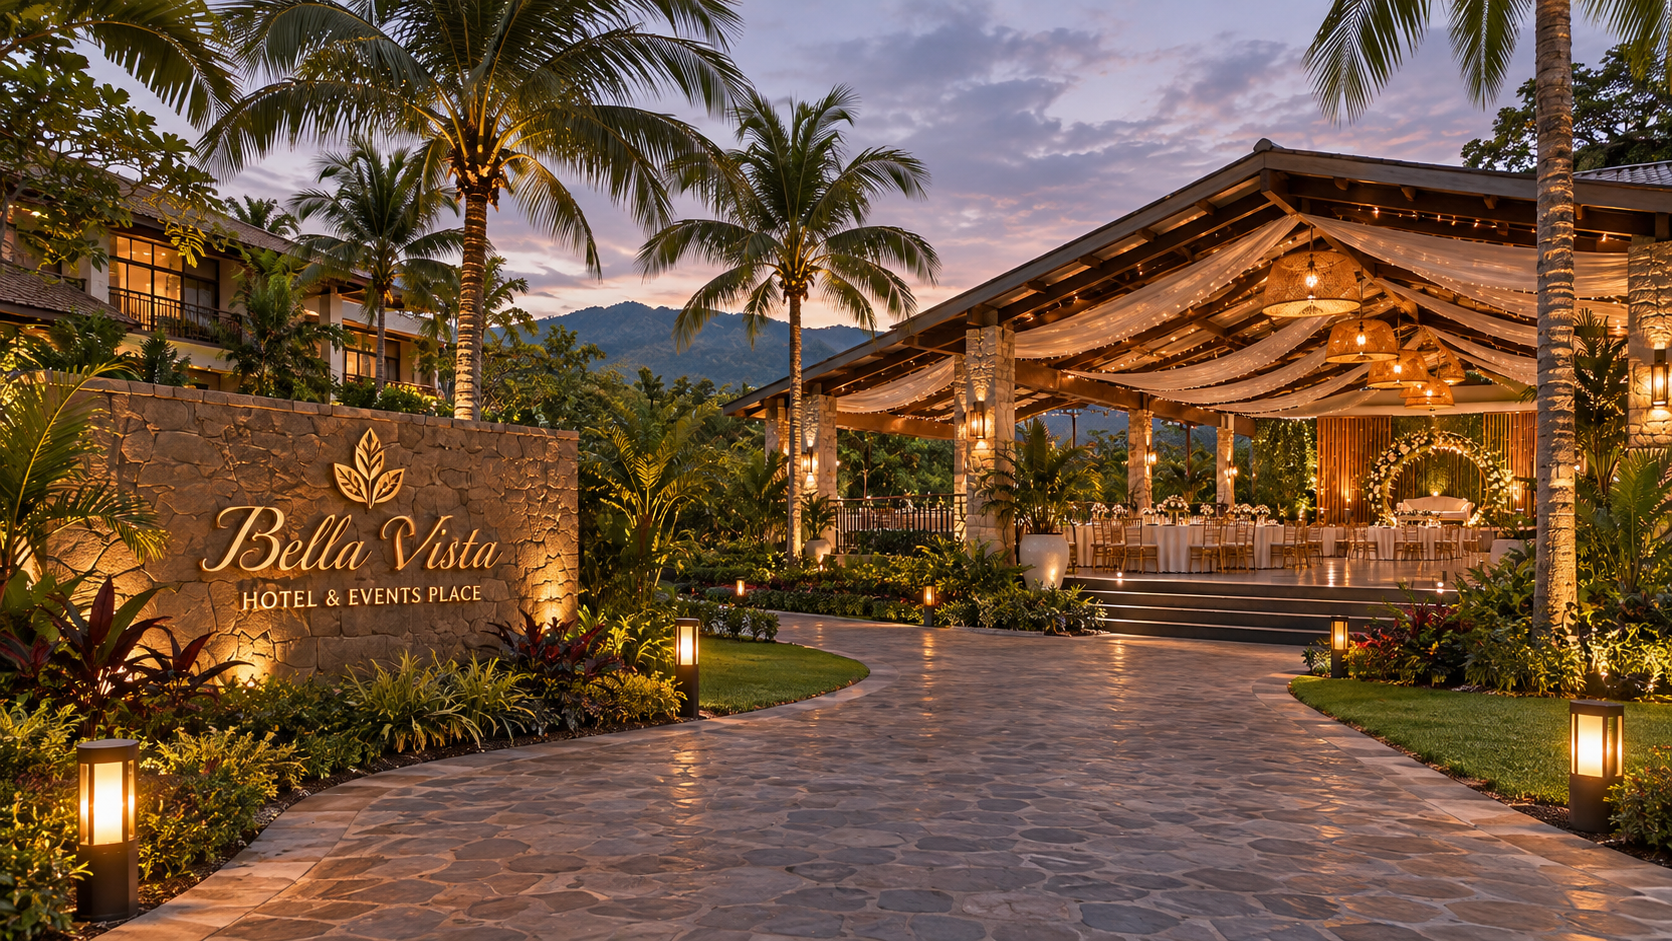
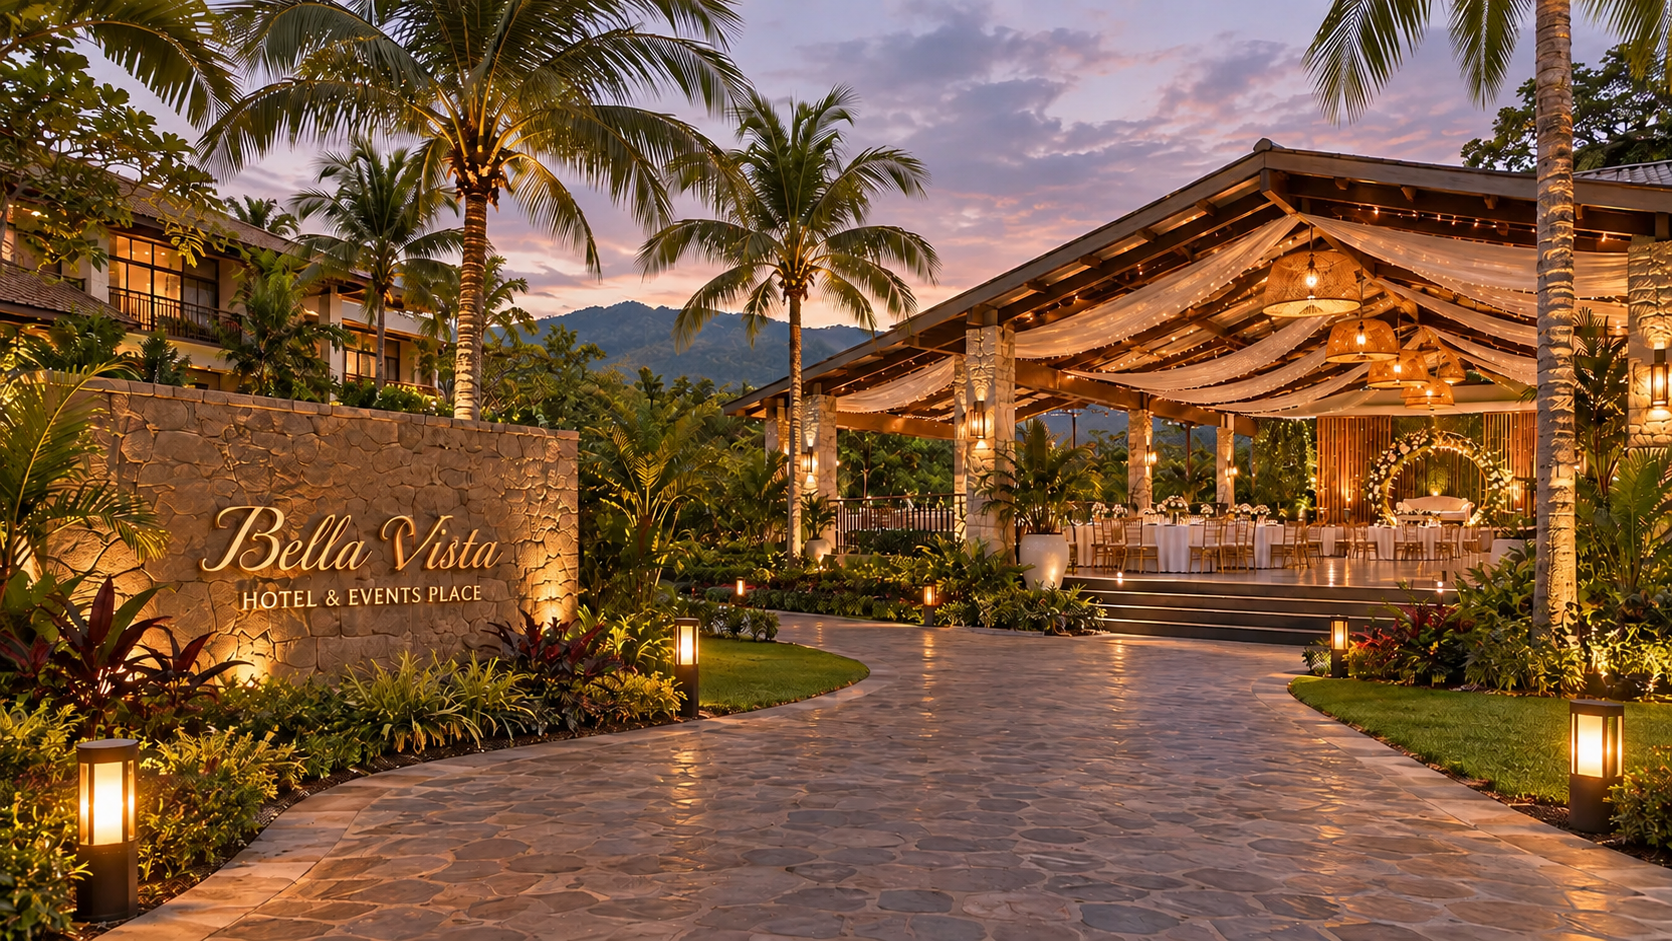
qw

Changed region(s): [[0.0, 0.0, 1.0, 1.0], [0.1244, 0.9554, 0.1866, 1.0], [0.3732, 0.9862, 0.4043, 1.0]]

diff --git a/gallery.php b/gallery.php
@@ -8,7 +8,7 @@ include 'head.php';
  */
 $galleryImages = [
     [
-        'file' => 'assets/img/room-a.png',
+        'file' => 'assets/img/room-b.png',
         'category' => 'standard',
         'categoryLabel' => 'Standard Rooms',
         'title' => 'Standard Room',
@@ -32,7 +32,7 @@ $galleryImages = [
         'alt' => 'Event hall arranged with round tables and chairs',
     ],
     [
-        'file' => 'assets/img/Dine In Area.png',
+        'file' => 'assets/img/Dine-In-Area.png',
         'category' => 'dining',
         'categoryLabel' => 'Dining Areas',
         'title' => 'Indoor Dining Area',
@@ -52,7 +52,7 @@ $galleryImages = [
         'category' => 'exterior',
         'categoryLabel' => 'Hotel & Grounds',
         'title' => 'Event Hall Entrance',
-        'description' => 'The hotel entrance and approach, framed by tropical landscaping and outdoor lighting.',
+        'description' => 'An elegant event hall entrance with refined décor and a spacious layout, creating a welcoming first impression for guests.',
         'alt' => 'Event hall entrance framed by tropical landscaping',
     ],
     [
@@ -64,11 +64,11 @@ $galleryImages = [
         'alt' => 'Hotel exterior with landscaped grounds and pool area',
     ],
     [
-        'file' => 'assets/img/g1.png',
+        'file' => 'assets/img/Hotel-Lounge.png',
         'category' => 'facilities',
         'categoryLabel' => 'Hotel Interiors',
         'title' => 'Hotel Facility',
-        'description' => 'A view of one of the hotel’s guest facilities.',
+        'description' => 'A welcoming hotel lounge with comfortable seating, warm lighting, and a relaxed atmosphere for guests to unwind.',
         'alt' => 'Hotel facility interior',
     ],
     [
@@ -76,7 +76,7 @@ $galleryImages = [
         'category' => 'facilities',
         'categoryLabel' => 'Hotel Interiors',
         'title' => 'Hotel Interior',
-        'description' => 'An interior lounge or reception-style space with seating, timber details, and indoor plants.',
+        'description' => 'A bright and orderly hallway leading to the guest rooms, offering guests a pleasant and comfortable passage throughout the hotel.',
         'alt' => 'Hotel interior with seating, timber details, and plants',
     ],
 ];
@@ -126,7 +126,7 @@ $galleryImages = [
     <button class="gallery-lightbox__backdrop" type="button" data-lightbox-close aria-label="Close image preview"></button>
     <div class="gallery-lightbox__panel" role="document">
         <div class="gallery-lightbox__top">
-            <p class="gallery-lightbox__counter" id="lightbox-counter" aria-live="polite">1 of 8</p>
+            <p class="gallery-lightbox__counter" id="lightbox-counter" aria-live="polite">1 of 9</p>
             <button class="gallery-lightbox__close" type="button" data-lightbox-close aria-label="Close image preview">×</button>
         </div>
         <div class="gallery-lightbox__stage">
@@ -173,6 +173,14 @@ $galleryImages = [
 .gallery-lightbox { position:fixed; z-index:1000; inset:0; display:grid; place-items:center; padding:clamp(.5rem,2vw,1.5rem); }
 .gallery-lightbox__backdrop { position:absolute; inset:0; width:100%; height:100%; border:0; background:rgba(4,15,9,.92); cursor:default; }
 .gallery-lightbox__panel { position:relative; z-index:1; display:flex; flex-direction:column; width:min(1100px,100%); max-height:96dvh; overflow:auto; border:1px solid rgba(255,255,255,.16); border-radius:16px; background:var(--sf); color:var(--tx); box-shadow:0 25px 80px #0005; }
+.gallery-lightbox__panel { opacity:0; transform:translateY(12px) scale(.97); transition:opacity .28s ease,transform .32s cubic-bezier(.2,.75,.25,1); }
+.gallery-lightbox.is-open .gallery-lightbox__panel { opacity:1; transform:translateY(0) scale(1); }
+.gallery-lightbox__stage img { opacity:1; }
+@keyframes gallery-image-fade {
+    from { opacity:.35; }
+    to { opacity:1; }
+}
+.gallery-lightbox__stage img.is-entering { animation:gallery-image-fade .18s ease-out both; }
 .gallery-lightbox__top { display:flex; align-items:center; justify-content:space-between; gap:1rem; padding:.7rem 1rem; }
 .gallery-lightbox__counter { margin:0; color:var(--mu); font-size:.85rem; font-variant-numeric:tabular-nums; }
 .gallery-lightbox__close { width:40px; height:40px; border:1px solid var(--ln); border-radius:50%; background:transparent; color:var(--tx); font-size:1.7rem; line-height:1; cursor:pointer; }
@@ -187,7 +195,11 @@ $galleryImages = [
 body.gallery-lightbox-open { overflow:hidden; }
 @media(max-width:900px) { .gallery-grid { grid-template-columns:repeat(2,minmax(0,1fr)); gap:1rem; } .gallery-content { width:calc(100% - 2rem); } }
 @media(max-width:560px) { .gallery-grid { grid-template-columns:minmax(0,1fr); } .gallery-content { width:calc(100% - 1.25rem); } .gallery-card__details { padding:1rem; } .gallery-lightbox__panel { max-height:98dvh; border-radius:12px; } .gallery-lightbox__stage img { max-height:55vh; } .gallery-lightbox__nav { width:38px; height:46px; } }
-@media(prefers-reduced-motion:reduce) { .gallery-card,.gallery-card__photo img,.gallery-card__view { transition:none; } }
+@media(prefers-reduced-motion:reduce) {
+    .gallery-card,.gallery-card__photo img,.gallery-card__view,
+    .gallery-lightbox__panel { transition:none; }
+    .gallery-lightbox__stage img.is-entering { animation:none; }
+}
 </style>
 
 <script>
@@ -220,8 +232,12 @@ body.gallery-lightbox-open { overflow:hidden; }
     function showImage(index) {
         currentIndex = (index + visibleIndexes.length) % visibleIndexes.length;
         const data = imageData[visibleIndexes[currentIndex]];
-        previewImage.src = data.src;
+        previewImage.classList.remove('is-entering');
         previewImage.alt = data.alt;
+        previewImage.src = data.src;
+        // Restart the entrance animation for every image selection.
+        void previewImage.offsetWidth;
+        previewImage.classList.add('is-entering');
         previewTitle.textContent = data.title;
         previewDescription.textContent = data.description;
         previewCategory.textContent = data.category;
@@ -238,13 +254,16 @@ body.gallery-lightbox-open { overflow:hidden; }
         lightbox.hidden = false;
         document.body.classList.add('gallery-lightbox-open');
         showImage(currentIndex);
+        requestAnimationFrame(() => lightbox.classList.add('is-open'));
         lightbox.querySelector('.gallery-lightbox__close').focus();
     }
 
     function closeLightbox() {
+        lightbox.classList.remove('is-open');
         lightbox.hidden = true;
         document.body.classList.remove('gallery-lightbox-open');
         previewImage.removeAttribute('src');
+        previewImage.classList.remove('is-entering');
         if (returnFocus) returnFocus.focus();
     }
 
